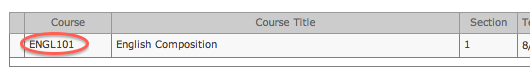
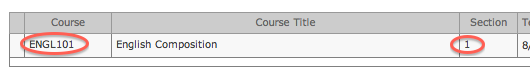
add help about section

Changed region(s): [[0.8453, 0.4658, 0.9358, 0.7671]]

diff --git a/public/help/uwest.html b/public/help/uwest.html
@@ -1,7 +1,9 @@
 <p>
   To add your class, you will need to know the term and you will need to locate the <em>Course</em> you want.
-  This can be found in the <a href="https://myportal.uwest.edu/Common/CourseSchedule.aspx" target="_blank">
-  Class Schedule</a>, and is in the column labelled Course.  An example is shown
+  The class may also have a <em>Section</em> listed, in which case you will need that as well. If your course
+  does not have a section listed, you can leave that field blank.
+  You class info can be found in the <a href="https://myportal.uwest.edu/Common/CourseSchedule.aspx" target="_blank">
+  Class Schedule</a>, and located in the columns labelled Course and Section.  An example is shown
   below:
 </p>
 <p>
